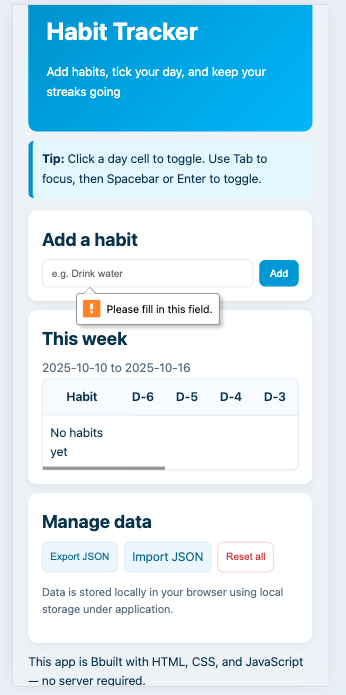
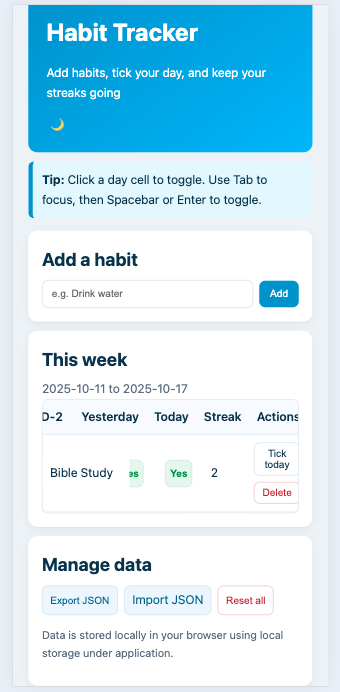
creates dark/light theme functionality and updated readme file

diff --git a/js/app.js b/js/app.js
@@ -102,6 +102,7 @@ const habitInput = document.getElementById("habit-name");
 const exportBtn = document.getElementById("export-json");
 const importInput = document.getElementById("import-json");
 const resetBtn = document.getElementById("reset-all");
+const darkModeToggle = document.getElementById("dark-mode-toggle"); // For dark and ligh theme
 
 // ===========================================================================
 // THE INITIALIZATION  STATE FOR LOCALSTORAGE AND RENDERING THE HABIT
@@ -217,11 +218,12 @@ function renderHabitRow(habit) {
   actions.className = "actions";
 
   const tickBtn = document.createElement("button");
+  tickBtn.className = "action-btn";
   tickBtn.textContent = "Tick today";
   tickBtn.addEventListener("click", () => toggleLog(habit.id, todayKey()));
 
   const delBtn = document.createElement("button");
-  delBtn.className = "delete";
+  delBtn.className = "action-btn delete";
   delBtn.textContent = "Delete";
   delBtn.addEventListener("click", () => {
     if (confirm(`Delete habit "${habit.name}"?`)) {
@@ -320,6 +322,25 @@ resetBtn.addEventListener("click", () => {
   saveState(state);
   render();
 });
+
+// =========================
+//  DARK MODE TOGGLE
+// =========================
+
+// Initializes dark mode toggle button with persistence
+(function initDarkMode() {
+  const pref = localStorage.getItem("darkMode") === "true";
+  if (pref) document.body.classList.add("dark");
+
+  darkModeToggle.textContent = pref ? "☀" : "🌙";
+
+  darkModeToggle.addEventListener("click", () => {
+    const isDark = document.body.classList.toggle("dark");
+    localStorage.setItem("darkMode", isDark);
+    darkModeToggle.textContent = isDark ? "☀" : "🌙";
+  });
+})();
+
 
 // =========================
 //  INITIAL RENDER

diff --git a/assets/style.css b/assets/style.css
@@ -30,6 +30,27 @@
 }
 
 /* ==================================
+   Dark Mode Overrides
+   ================================== */
+body.dark {
+  --bg: #2e2d2d;
+  --card: #272626;
+  --border: #333;
+  --ink: #e0e0e0;
+  --muted: #aaa;
+  --ring: #4d4d4d;
+  --success-bg: #1e9e4a33;
+  --success-text: #1e9e4a;
+  --danger: #ff6b6b;
+  --tip-bg: #877f7f;
+  --tip-border: #0a0a0a;
+  --table-header-bg: #1a1a1a;
+  /* Brand colors */
+  --brand-1: #b0b1bc20;
+  --brand-2: #b0b1bc20;
+}
+
+/* ==================================
    Global & Layout
    ================================== */
 * {
@@ -63,10 +84,27 @@ input:focus {
 }
 
 /* ==================================
+  DArk and Light theme button
+   ================================== */
+button.action-btn {
+  border: none;
+  background: none;
+  cursor: pointer;
+  outline: none;
+  border: none;
+}
+.action-btn:hover {
+  border: none;
+  background: none;
+  cursor: pointer;
+  text-decoration: none;
+}
+
+/* ==================================
    Header & Tip
    ================================== */
 header {
-  background: linear-gradient(135deg, var(--brand-1), var(--brand-2));
+  background: linear-gradient(145deg, var(--brand-1), var(--brand-2));
   color: #fff;
   padding: 24px;
   border-radius: 12px;

diff --git a/index.html b/index.html
@@ -12,6 +12,7 @@
       <header>
         <h1>Habit Tracker</h1>
         <p>Add habits, tick your day, and keep your streaks going</p>
+        <button id="dark-mode-toggle" class="action-btn">🌙</button>
       </header>
       <!-- Tip Section -->
       <section class="tip" aria-live="polite">

diff --git a/README.md b/README.md
@@ -39,7 +39,7 @@ code .   # opens VS Code if available
 Simply open `index.html` in your browser. All data is stored locally using `localStorage`.
 
 ---
-## 🛠 Tech Stack
+## Tech Stack
 - HTML5
 - CSS3 (custom properties, responsive layout)
 - **Vanilla JS only** — no frameworks, just modern JavaScript  
@@ -63,6 +63,8 @@ HABIT_TRACKER-T
 ├── assets
 │   └── style.css       # Stylesheet
 ├── img
+│   ├── FrontDark.png
+│   ├── FrontDark.png
 │   ├── HabitPage.png
 │   └── MobileView.png
 ├── js
@@ -82,6 +84,7 @@ HABIT_TRACKER-T
 - Reset all habits with one click  
 - Manual **dark mode toggle** (saved in localStorage)  
 - Fully responsive and mobile-friendly 
+- **Persistent theme toggle** — remembers the dark/light preference  
 ---
 
 ## Usage
@@ -104,6 +107,10 @@ HABIT_TRACKER-T
 ### Export / Import Data
 
 - **Export JSON**: Downloads your current habits and logs.
+
+### Toggling Theme
+- Click the **🌙 / ☀** icon in the header  to switch themes.
+  * The preference is saved automatically.
 
 #### Exporting  Data
 > You can export the entire habit list and progress to a JSON file.
@@ -166,6 +173,14 @@ HABIT_TRACKER-T
 ### Reset All
 
 - **Reset all** removes all habits and logs permanently from your browser.
+
+---
+
+## Dark and Light Theme
+
+| Dark Theme | Light Theme |
+|-------------|--------------|
+| ![Dark mode](/img/FrontDark.png) | ![Light mode](/img/FrontLight.png) |
 
 ---
 
